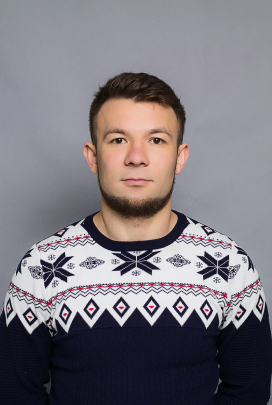
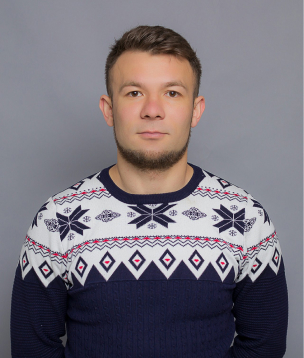
feat: edit section- team

diff --git a/assets/css/style.min.css b/assets/css/style.min.css
@@ -1,2 +1,2 @@
-@import url("https://fonts.googleapis.com/css?family=Yeseva+One&display=swap");html,body,div,span,applet,object,iframe,h1,h2,h3,h4,h5,h6,p,blockquote,pre,a,abbr,acronym,address,big,cite,code,del,dfn,em,img,ins,kbd,q,s,samp,small,strike,strong,sub,sup,tt,var,b,u,i,center,dl,dt,dd,ol,ul,li,fieldset,form,label,legend,table,caption,tbody,tfoot,thead,tr,th,td,article,aside,canvas,details,embed,figure,figcaption,footer,header,hgroup,menu,nav,output,ruby,section,summary,time,mark,audio,video{margin:0;padding:0;border:0;font-size:100%;font:inherit;vertical-align:baseline}article,aside,details,figcaption,figure,footer,header,hgroup,menu,nav,section{display:block}body{line-height:1}ol,ul{list-style:none}blockquote,q{quotes:none}blockquote:before,blockquote:after,q:before,q:after{content:'';content:none}table{border-collapse:collapse;border-spacing:0}@font-face{font-family:'FuturaDemiC';src:local("FuturaDemiC"),url("https://nomail.com.ua/files/woff/fa7892c650d8237d04043b1cf3cdc49f.woff") format("woff")}@font-face{font-family:'FuturaDemiC-Italic';src:local("FuturaDemiC-Italic"),url("https://nomail.com.ua/files/woff/b3b0f9ea4418fc384826ced0fbdf36ac.woff") format("woff")}@font-face{font-family:'FuturaBookC';src:local("FuturaBookC"),url("https://nomail.com.ua/files/woff/363c763618808869720c6ca7b4059566.woff") format("woff")}@font-face{font-family:'FuturaMediumC';src:local("FuturaMediumC"),url("https://nomail.com.ua/files/woff/047c56cc37e017c6be47821ec5cac9de.woff") format("woff")}@font-face{font-family:'ProximaNova-RegularCondensed';src:local("ProximaNova-RegularCondensed"),url("https://nomail.com.ua/files/woff/dc38e71c06219d82fe9ec4c3375e98af.woff") format("woff")}*{-webkit-box-sizing:border-box;box-sizing:border-box;width:100%}body{font-family:'FuturaBookC', Arial, Helvetica, sans-serif;background:#252525;font-size:14px}.checkbox{width:auto}h2{font-family:Yeseva One;font-style:normal;font-weight:normal;font-size:22px;line-height:138.6%;text-align:center;letter-spacing:-0.07em;text-transform:uppercase;color:#E3B873}.btn{text-decoration:none;text-transform:uppercase;background-color:#E3B873;color:#FFFFFF;border:none;font-family:FuturaDemiC;font-size:13px;line-height:15px;display:-ms-grid;display:grid;-webkit-box-align:center;-ms-flex-align:center;align-items:center;justify-items:center;-webkit-transition:0.2s linear;transition:0.2s linear}.btn:hover{background:#E3B87388}.btn-link,.btn-link:hover{background-color:unset}.btn-circle{display:-ms-grid;display:grid;-webkit-box-align:center;-ms-flex-align:center;align-items:center;justify-items:center;border-radius:50%}.btn-secondary{border:1px solid #FFFFFF;background-color:unset}.header{display:-ms-grid;display:grid;-ms-grid-columns:auto auto;grid-template-columns:auto auto;-ms-grid-rows:auto;grid-template-rows:auto;padding:18px;-webkit-box-pack:justify;-ms-flex-pack:justify;justify-content:space-between;-webkit-box-align:center;-ms-flex-align:center;align-items:center;justify-items:center;width:100%;height:57px;align-items:center;justify-items:center}.header .header__title{font-family:FuturaDemiC;font-size:12px;line-height:14px;text-transform:uppercase;color:#E3B873}.header .btn__link{font-family:FuturaDemiC;font-size:12px;line-height:14px}.introduction{display:-ms-grid;display:grid;-ms-grid-columns:1fr;grid-template-columns:1fr;height:476px;color:#FFFFFF;-ms-grid-rows:51px auto;grid-template-rows:51px auto}.introduction .introduction__substrate{-ms-grid-column:1;grid-column:1;-ms-grid-row:1;grid-row:1;background-image:url("/assets/img/bg-001.jpg");background-position:-170px;background-size:cover;height:inherit}.introduction .introduction__inner{-ms-grid-column:1;grid-column:1;-ms-grid-row:1;grid-row:1;background:rgba(0,0,0,0.7);padding:85px 18px 61px 18px;-webkit-box-orient:vertical;-webkit-box-direction:normal;-ms-flex-direction:column;flex-direction:column;display:-ms-grid;display:grid;-ms-grid-rows:73px 129px auto;grid-template-rows:73px 129px auto;height:inherit}.introduction .introduction__inner .introduction__title{font-family:'Yeseva One', cursive;font-size:23px;line-height:132.83%;text-transform:uppercase;margin-bottom:16px;color:#FFFFFF;text-align:left;letter-spacing:0.05px}.introduction .introduction__inner .introduction__title em{color:#E3B873}.introduction .introduction__inner .introduction__description{font-family:FuturaBookC;font-size:18px;line-height:135.84%;margin-bottom:32px;padding-right:40px}.introduction .introduction__inner .btn{height:51px;width:100%}.introduction .introduction__inner .btn-primary{margin-bottom:26px}.completed{display:-ms-grid;display:grid;-ms-grid-columns:1fr;grid-template-columns:1fr;-ms-grid-rows:85px 126px 277px 173px;grid-template-rows:85px 126px 277px 173px;color:#FFFFFF;padding:34px 18px 0 18px}.completed .completed__title{font-family:Yeseva One;font-style:normal;font-weight:normal;font-size:22px;line-height:138.6%;text-align:center;letter-spacing:-0.07em;text-transform:uppercase}.completed .completed__description{font-family:FuturaBookC;font-size:14px;line-height:158.48%;text-align:center;padding:0 10px;letter-spacing:0.1px}.completed .completed__slider{display:-ms-grid;display:grid;-ms-grid-columns:1fr;grid-template-columns:1fr;-ms-grid-rows:1fr;grid-template-rows:1fr;-webkit-box-align:center;-ms-flex-align:center;align-items:center;margin-bottom:36px}.completed .completed__slider .img{-ms-grid-column:1;grid-column:1;-ms-grid-row:1;grid-row:1}.completed .completed__slider .btn-slider-left{-ms-grid-column:1;grid-column:1;-ms-grid-row:1;grid-row:1;margin:0 0 0 14px}.completed .completed__slider .btn-slider-right{-ms-grid-column:1;grid-column:1;-ms-grid-row:1;grid-row:1;margin:0 14px 0 auto}.completed .completed__slider .btn-slider-left,.completed .completed__slider .btn-slider-right{width:36px;height:36px;border-radius:50%}.completed .completed__slider .btn-slider-left img,.completed .completed__slider .btn-slider-right img{height:14px;width:8px;margin:0 auto}.completed .completed__properties{display:-ms-grid;display:grid;-ms-grid-columns:160px 1fr;grid-template-columns:160px 1fr;-ms-grid-rows:auto auto;grid-template-rows:auto auto}.completed .completed__properties li h3{font-family:Yeseva One;font-size:14px;line-height:138.6%;text-transform:uppercase;color:#E3B873;margin-bottom:12px}.completed .completed__properties li p{font-family:FuturaBookC;font-size:14px;line-height:135.84%;color:#FFFFFF;margin-bottom:27px}.control{display:-ms-grid;display:grid;-ms-grid-rows:1fr;grid-template-rows:1fr;-ms-grid-columns:1fr;grid-template-columns:1fr;-webkit-box-align:end;-ms-flex-align:end;align-items:end}.control .control__inner{-ms-grid-column:1;grid-column:1;-ms-grid-row:1;grid-row:1;max-width:340px;display:-ms-grid;display:grid;-ms-grid-rows:78px 70px 234px 18px 171px;grid-template-rows:78px 70px 234px 18px 171px;margin-left:17px;-webkit-box-sizing:border-box;box-sizing:border-box}.control .control__inner .control__title{color:#FFFFFF;margin-top:28px;font-size:25px}.control .control__inner .control__img{height:28px;width:114px;margin:0 auto}.control .control__inner .control__video{height:207px;width:100%;margin:0 auto}.control .control__inner .control__img-line{width:55px;height:1.54px;margin:0 auto}.control .control__inner .control__description{font-family:FuturaBookC;font-size:14px;text-align:center;color:#FFFFFF;line-height:24px;letter-spacing:0.1px}.control .control__inner .control__form label{font-family:FuturaBookC;font-size:15px;line-height:18px;color:rgba(255,255,255,0.5);letter-spacing:0.5px}.control .control__inner .control__form input{font-family:FuturaBookC;font-size:18px;line-height:138.72%;color:#FFFFFF;border:0;background:unset}.control .control__inner .control__form ::-webkit-input-placeholder{color:#FFFFFF}.control .control__inner .control__form :-ms-input-placeholder{color:#FFFFFF}.control .control__inner .control__form ::-ms-input-placeholder{color:#FFFFFF}.control .control__inner .control__form ::placeholder{color:#FFFFFF}.control .control__inner .control__form .control__form-name,.control .control__inner .control__form .control__form-tel{border-bottom:1px solid #FFFFFF}.control .control__inner .control__form .control__form-name{margin-bottom:63px}.control .control__inner .control__form .control__form-tel{margin-bottom:26px}.control .control__inner .control__form .control__form-checkbox-agree{width:auto;margin-bottom:67px;letter-spacing:0.5px}.control .control__inner .control__form label[for="control__form-checkbox-agree"]{color:#FFFFFF}.control .control__inner .control__form .btn{height:51px;text-decoration:none;text-transform:uppercase;background-color:#E3B873;color:#FFFFFF;border:none;font-family:FuturaDemiC;font-size:13px;line-height:15px;display:-ms-grid;display:grid;-webkit-box-align:center;-ms-flex-align:center;align-items:center;justify-items:center;-webkit-transition:0.2s linear;transition:0.2s linear}.control .control__inner .control__form .btn:hover{background:#E3B87388}.control .control__inner .control__form .control__btn-submit{padding-top:5px;font-size:15px}.control .control__substrate{-ms-grid-column:1;grid-column:1;-ms-grid-row:1;grid-row:1;height:25px;z-index:-1;background:#FFFFFF}.repair{background:#FFFFFF;display:-ms-grid;display:grid;-ms-grid-rows:100px 68px;grid-template-rows:100px 68px;padding:0 18px}.repair .repair__title{margin-top:55px;color:#181818;letter-spacing:normal}.repair .repair__img{height:28px;width:114px;margin:0 auto}.repair .repair__article{display:-ms-grid;display:grid;-ms-grid-columns:190px 80px 70px;grid-template-columns:190px 80px 70px;-ms-grid-rows:223px 142px 79px 20px 20px;grid-template-rows:223px 142px 79px 20px 20px;padding-bottom:59px}.repair .repair__article .repair__article-img{-ms-grid-column:1;-ms-grid-column-span:3;grid-column:1/span 3;-ms-grid-row:1;-ms-grid-row-span:2;grid-row:1/span 2}.repair .repair__article .repair__article-img:nth-child(2){background:#E3B873}.repair .repair__article .repair__description{-ms-grid-column:1;-ms-grid-column-span:2;grid-column:1/span 2;-ms-grid-row:2;-ms-grid-row-span:3;grid-row:2/span 3;background:#FFFFFF;font-family:"FuturaBookC";font-size:13px;line-height:22px;color:#959595;-webkit-box-shadow:5px 10px 20px rgba(0,0,0,0.05);box-shadow:5px 10px 20px rgba(0,0,0,0.05);padding:21px 0 0 31px}.repair .repair__article .repair__description .repair__article-title{font-family:"Yeseva One";font-style:normal;font-weight:normal;font-size:15px;line-height:21px;color:#363636;margin-bottom:5px}.repair .repair__article .repair__article-price{-ms-grid-column:1;-ms-grid-column-span:1;grid-column:1/span 1;-ms-grid-row:4;-ms-grid-row-span:2;grid-row:4/span 2;background:#E3B873;color:#FFFFFF;display:-ms-grid;display:grid;-webkit-box-align:center;-ms-flex-align:center;align-items:center;justify-items:center;font-family:Yeseva One;font-style:normal;font-weight:normal;font-size:15px;line-height:21px;text-transform:uppercase}.realize{display:-ms-grid;display:grid;-ms-grid-rows:1fr;grid-template-rows:1fr;-ms-grid-columns:1fr;grid-template-columns:1fr;background:#FFFFFF;-webkit-box-align:end;-ms-flex-align:end;align-items:end}.realize .realize__inner{-ms-grid-row:1;grid-row:1;-ms-grid-column:1;grid-column:1;padding:0 18px;display:-ms-grid;display:grid;-ms-grid-rows:85px 245px;grid-template-rows:85px 245px;z-index:10}.realize .realize__inner .realize__title{font-family:"Yeseva One";font-size:22px;line-height:30px;letter-spacing:0.2px;text-align:center;text-transform:uppercase;color:#E3B873}.realize .realize__inner .realize__slider{display:-ms-grid;display:grid;-ms-grid-columns:14px 36px auto 36px 14px;grid-template-columns:14px 36px auto 36px 14px;-webkit-box-align:center;-ms-flex-align:center;align-items:center;justify-items:center}.realize .realize__inner .realize__slider .realize__slider-img,.realize .realize__inner .realize__slider .realize__slider-btn-left,.realize .realize__inner .realize__slider .realize__slider-btn-right{-ms-grid-row:1;grid-row:1}.realize .realize__inner .realize__slider .realize__slider-img{-ms-grid-column:1;-ms-grid-column-span:5;grid-column:1/span 5}.realize .realize__inner .realize__slider .realize__slider-btn-left{-ms-grid-column:2;grid-column:2}.realize .realize__inner .realize__slider .realize__slider-btn-right{-ms-grid-column:4;grid-column:4}.realize .realize__inner .realize__slider .realize__slider-btn-left,.realize .realize__inner .realize__slider .realize__slider-btn-right{height:36px;width:36px;border-radius:50%}.realize .realize__inner .realize__slider .realize__slider-btn-left img,.realize .realize__inner .realize__slider .realize__slider-btn-right img{margin:0 auto;height:12px;width:8px}.realize .realize__substrate{-ms-grid-row:1;grid-row:1;-ms-grid-column:1;grid-column:1;height:123px;background:#252525}.design{display:-ms-grid;display:grid;-ms-grid-rows:78px 42px 138px auto;grid-template-rows:78px 42px 138px auto;-webkit-box-align:end;-ms-flex-align:end;align-items:end;padding:0 18px}.design .design__title{font-family:"Yeseva One";font-size:22px;line-height:30px;letter-spacing:0.2px;text-align:center;text-transform:uppercase;color:#FFFFFF}.design .design__signboard{width:114px;margin:0 auto}.design .design__description{font-family:FuturaBookC;font-size:15px;line-height:20px;padding:0 11px;margin-top:20px;margin-bottom:auto;text-align:center;color:#FFFFFF}.design .design__article{display:-ms-grid;display:grid;-ms-grid-columns:190px 80px 70px;grid-template-columns:190px 80px 70px;-ms-grid-rows:223px auto auto 20px 20px;grid-template-rows:223px auto auto 20px 20px;margin-bottom:62px}.design .design__article .design__article-img{-ms-grid-column:1;-ms-grid-column-span:3;grid-column:1/span 3;-ms-grid-row:1;-ms-grid-row-span:2;grid-row:1/span 2}.design .design__article .design__article-description{-ms-grid-column:1;-ms-grid-column-span:2;grid-column:1/span 2;-ms-grid-row:2;-ms-grid-row-span:3;grid-row:2/span 3;background:#FFFFFF;padding:18px 0 37px 31px}.design .design__article .design__article-description .design__article-title{font-family:"Yeseva One";font-size:15px;line-height:21px;color:#363636;margin-bottom:10px}.design .design__article .design__article-description .design__article-list{font-family:FuturaBookC;font-size:13px;line-height:22px;color:#959595}.design .design__article .design__article-price{-ms-grid-column:1;-ms-grid-column-span:1;grid-column:1/span 1;-ms-grid-row:4;-ms-grid-row-span:2;grid-row:4/span 2;display:-ms-grid;display:grid;-webkit-box-align:center;-ms-flex-align:center;align-items:center;justify-items:center;background:#E3B873;-webkit-box-shadow:5px 5px 10px rgba(227,184,115,0.3);box-shadow:5px 5px 10px rgba(227,184,115,0.3);font-family:"Yeseva One";font-size:15px;line-height:21px;text-transform:uppercase;color:#FFFFFF}.map .map__wrap{height:255px;max-width:340px;width:100%;margin:0 auto}
+@import url("https://fonts.googleapis.com/css?family=Yeseva+One&display=swap");html,body,div,span,applet,object,iframe,h1,h2,h3,h4,h5,h6,p,blockquote,pre,a,abbr,acronym,address,big,cite,code,del,dfn,em,img,ins,kbd,q,s,samp,small,strike,strong,sub,sup,tt,var,b,u,i,center,dl,dt,dd,ol,ul,li,fieldset,form,label,legend,table,caption,tbody,tfoot,thead,tr,th,td,article,aside,canvas,details,embed,figure,figcaption,footer,header,hgroup,menu,nav,output,ruby,section,summary,time,mark,audio,video{margin:0;padding:0;border:0;font-size:100%;font:inherit;vertical-align:baseline}article,aside,details,figcaption,figure,footer,header,hgroup,menu,nav,section{display:block}body{line-height:1}ol,ul{list-style:none}blockquote,q{quotes:none}blockquote:before,blockquote:after,q:before,q:after{content:'';content:none}table{border-collapse:collapse;border-spacing:0}@font-face{font-family:'FuturaDemiC';src:local("FuturaDemiC"),url("https://nomail.com.ua/files/woff/fa7892c650d8237d04043b1cf3cdc49f.woff") format("woff")}@font-face{font-family:'FuturaDemiC-Italic';src:local("FuturaDemiC-Italic"),url("https://nomail.com.ua/files/woff/b3b0f9ea4418fc384826ced0fbdf36ac.woff") format("woff")}@font-face{font-family:'FuturaBookC';src:local("FuturaBookC"),url("https://nomail.com.ua/files/woff/363c763618808869720c6ca7b4059566.woff") format("woff")}@font-face{font-family:'FuturaMediumC';src:local("FuturaMediumC"),url("https://nomail.com.ua/files/woff/047c56cc37e017c6be47821ec5cac9de.woff") format("woff")}@font-face{font-family:'ProximaNova-RegularCondensed';src:local("ProximaNova-RegularCondensed"),url("https://nomail.com.ua/files/woff/dc38e71c06219d82fe9ec4c3375e98af.woff") format("woff")}*{-webkit-box-sizing:border-box;box-sizing:border-box;width:100%}body{font-family:'FuturaBookC', Arial, Helvetica, sans-serif;background:#252525;font-size:14px}.checkbox{width:auto}h2{font-family:Yeseva One;font-style:normal;font-weight:normal;font-size:22px;line-height:138.6%;text-align:center;letter-spacing:-0.07em;text-transform:uppercase;color:#E3B873}.btn{text-decoration:none;text-transform:uppercase;background-color:#E3B873;color:#FFFFFF;border:none;font-family:FuturaDemiC;font-size:13px;line-height:15px;display:-ms-grid;display:grid;-webkit-box-align:center;-ms-flex-align:center;align-items:center;justify-items:center;-webkit-transition:0.2s linear;transition:0.2s linear}.btn:hover{background:#E3B87388}.btn-link,.btn-link:hover{background-color:unset}.btn-circle{display:-ms-grid;display:grid;-webkit-box-align:center;-ms-flex-align:center;align-items:center;justify-items:center;border-radius:50%}.btn-secondary{border:1px solid #FFFFFF;background-color:unset}.header{display:-ms-grid;display:grid;-ms-grid-columns:auto auto;grid-template-columns:auto auto;-ms-grid-rows:auto;grid-template-rows:auto;padding:18px;-webkit-box-pack:justify;-ms-flex-pack:justify;justify-content:space-between;-webkit-box-align:center;-ms-flex-align:center;align-items:center;justify-items:center;width:100%;height:57px;align-items:center;justify-items:center}.header .header__title{font-family:FuturaDemiC;font-size:12px;line-height:14px;text-transform:uppercase;color:#E3B873}.header .btn__link{font-family:FuturaDemiC;font-size:12px;line-height:14px}.introduction{display:-ms-grid;display:grid;-ms-grid-columns:1fr;grid-template-columns:1fr;height:476px;color:#FFFFFF;-ms-grid-rows:51px auto;grid-template-rows:51px auto}.introduction .introduction__substrate{-ms-grid-column:1;grid-column:1;-ms-grid-row:1;grid-row:1;background-image:url("/assets/img/bg-001.jpg");background-position:-170px;background-size:cover;height:inherit}.introduction .introduction__inner{-ms-grid-column:1;grid-column:1;-ms-grid-row:1;grid-row:1;background:rgba(0,0,0,0.7);padding:85px 18px 61px 18px;-webkit-box-orient:vertical;-webkit-box-direction:normal;-ms-flex-direction:column;flex-direction:column;display:-ms-grid;display:grid;-ms-grid-rows:73px 129px auto;grid-template-rows:73px 129px auto;height:inherit}.introduction .introduction__inner .introduction__title{font-family:'Yeseva One', cursive;font-size:23px;line-height:132.83%;text-transform:uppercase;margin-bottom:16px;color:#FFFFFF;text-align:left;letter-spacing:0.05px}.introduction .introduction__inner .introduction__title em{color:#E3B873}.introduction .introduction__inner .introduction__description{font-family:FuturaBookC;font-size:18px;line-height:135.84%;margin-bottom:32px;padding-right:40px}.introduction .introduction__inner .btn{height:51px;width:100%}.introduction .introduction__inner .btn-primary{margin-bottom:26px}.completed{display:-ms-grid;display:grid;-ms-grid-columns:1fr;grid-template-columns:1fr;-ms-grid-rows:85px 126px 277px 173px;grid-template-rows:85px 126px 277px 173px;color:#FFFFFF;padding:34px 18px 0 18px}.completed .completed__title{font-family:Yeseva One;font-style:normal;font-weight:normal;font-size:22px;line-height:138.6%;text-align:center;letter-spacing:-0.07em;text-transform:uppercase}.completed .completed__description{font-family:FuturaBookC;font-size:14px;line-height:158.48%;text-align:center;padding:0 10px;letter-spacing:0.1px}.completed .completed__slider{display:-ms-grid;display:grid;-ms-grid-columns:1fr;grid-template-columns:1fr;-ms-grid-rows:1fr;grid-template-rows:1fr;-webkit-box-align:center;-ms-flex-align:center;align-items:center;margin-bottom:36px}.completed .completed__slider .img{-ms-grid-column:1;grid-column:1;-ms-grid-row:1;grid-row:1}.completed .completed__slider .btn-slider-left{-ms-grid-column:1;grid-column:1;-ms-grid-row:1;grid-row:1;margin:0 0 0 14px}.completed .completed__slider .btn-slider-right{-ms-grid-column:1;grid-column:1;-ms-grid-row:1;grid-row:1;margin:0 14px 0 auto}.completed .completed__slider .btn-slider-left,.completed .completed__slider .btn-slider-right{width:36px;height:36px;border-radius:50%}.completed .completed__slider .btn-slider-left img,.completed .completed__slider .btn-slider-right img{height:14px;width:8px;margin:0 auto}.completed .completed__properties{display:-ms-grid;display:grid;-ms-grid-columns:160px 1fr;grid-template-columns:160px 1fr;-ms-grid-rows:auto auto;grid-template-rows:auto auto}.completed .completed__properties li h3{font-family:Yeseva One;font-size:14px;line-height:138.6%;text-transform:uppercase;color:#E3B873;margin-bottom:12px}.completed .completed__properties li p{font-family:FuturaBookC;font-size:14px;line-height:135.84%;color:#FFFFFF;margin-bottom:27px}.control{display:-ms-grid;display:grid;-ms-grid-rows:1fr;grid-template-rows:1fr;-ms-grid-columns:1fr;grid-template-columns:1fr;-webkit-box-align:end;-ms-flex-align:end;align-items:end}.control .control__inner{-ms-grid-column:1;grid-column:1;-ms-grid-row:1;grid-row:1;max-width:340px;display:-ms-grid;display:grid;-ms-grid-rows:78px 70px 234px 18px 171px;grid-template-rows:78px 70px 234px 18px 171px;margin-left:17px;-webkit-box-sizing:border-box;box-sizing:border-box}.control .control__inner .control__title{color:#FFFFFF;margin-top:28px;font-size:25px}.control .control__inner .control__img{height:28px;width:114px;margin:0 auto}.control .control__inner .control__video{height:207px;width:100%;margin:0 auto}.control .control__inner .control__img-line{width:55px;height:1.54px;margin:0 auto}.control .control__inner .control__description{font-family:FuturaBookC;font-size:14px;text-align:center;color:#FFFFFF;line-height:24px;letter-spacing:0.1px}.control .control__inner .control__form label{font-family:FuturaBookC;font-size:15px;line-height:18px;color:rgba(255,255,255,0.5);letter-spacing:0.5px}.control .control__inner .control__form input{font-family:FuturaBookC;font-size:18px;line-height:138.72%;color:#FFFFFF;border:0;background:unset}.control .control__inner .control__form ::-webkit-input-placeholder{color:#FFFFFF}.control .control__inner .control__form :-ms-input-placeholder{color:#FFFFFF}.control .control__inner .control__form ::-ms-input-placeholder{color:#FFFFFF}.control .control__inner .control__form ::placeholder{color:#FFFFFF}.control .control__inner .control__form .control__form-name,.control .control__inner .control__form .control__form-tel{border-bottom:1px solid #FFFFFF}.control .control__inner .control__form .control__form-name{margin-bottom:63px}.control .control__inner .control__form .control__form-tel{margin-bottom:26px}.control .control__inner .control__form .control__form-checkbox-agree{width:auto;margin-bottom:67px;letter-spacing:0.5px}.control .control__inner .control__form label[for="control__form-checkbox-agree"]{color:#FFFFFF}.control .control__inner .control__form .btn{height:51px;text-decoration:none;text-transform:uppercase;background-color:#E3B873;color:#FFFFFF;border:none;font-family:FuturaDemiC;font-size:13px;line-height:15px;display:-ms-grid;display:grid;-webkit-box-align:center;-ms-flex-align:center;align-items:center;justify-items:center;-webkit-transition:0.2s linear;transition:0.2s linear}.control .control__inner .control__form .btn:hover{background:#E3B87388}.control .control__inner .control__form .control__btn-submit{padding-top:5px;font-size:15px}.control .control__substrate{-ms-grid-column:1;grid-column:1;-ms-grid-row:1;grid-row:1;height:25px;z-index:-1;background:#FFFFFF}.repair{background:#FFFFFF;display:-ms-grid;display:grid;-ms-grid-rows:100px 68px;grid-template-rows:100px 68px;padding:0 18px}.repair .repair__title{margin-top:55px;color:#181818;letter-spacing:normal}.repair .repair__img{height:28px;width:114px;margin:0 auto}.repair .repair__article{display:-ms-grid;display:grid;-ms-grid-columns:190px 80px 70px;grid-template-columns:190px 80px 70px;-ms-grid-rows:223px 142px 79px 20px 20px;grid-template-rows:223px 142px 79px 20px 20px;padding-bottom:59px}.repair .repair__article .repair__article-img{-ms-grid-column:1;-ms-grid-column-span:3;grid-column:1/span 3;-ms-grid-row:1;-ms-grid-row-span:2;grid-row:1/span 2}.repair .repair__article .repair__article-img:nth-child(2){background:#E3B873}.repair .repair__article .repair__description{-ms-grid-column:1;-ms-grid-column-span:2;grid-column:1/span 2;-ms-grid-row:2;-ms-grid-row-span:3;grid-row:2/span 3;background:#FFFFFF;font-family:"FuturaBookC";font-size:13px;line-height:22px;color:#959595;-webkit-box-shadow:5px 10px 20px rgba(0,0,0,0.05);box-shadow:5px 10px 20px rgba(0,0,0,0.05);padding:21px 0 0 31px}.repair .repair__article .repair__description .repair__article-title{font-family:"Yeseva One";font-style:normal;font-weight:normal;font-size:15px;line-height:21px;color:#363636;margin-bottom:5px}.repair .repair__article .repair__article-price{-ms-grid-column:1;-ms-grid-column-span:1;grid-column:1/span 1;-ms-grid-row:4;-ms-grid-row-span:2;grid-row:4/span 2;background:#E3B873;color:#FFFFFF;display:-ms-grid;display:grid;-webkit-box-align:center;-ms-flex-align:center;align-items:center;justify-items:center;font-family:Yeseva One;font-style:normal;font-weight:normal;font-size:15px;line-height:21px;text-transform:uppercase}.realize{display:-ms-grid;display:grid;-ms-grid-rows:1fr;grid-template-rows:1fr;-ms-grid-columns:1fr;grid-template-columns:1fr;background:#FFFFFF;-webkit-box-align:end;-ms-flex-align:end;align-items:end}.realize .realize__inner{-ms-grid-row:1;grid-row:1;-ms-grid-column:1;grid-column:1;padding:0 18px;display:-ms-grid;display:grid;-ms-grid-rows:85px 245px;grid-template-rows:85px 245px;z-index:10}.realize .realize__inner .realize__title{font-family:"Yeseva One";font-size:22px;line-height:30px;letter-spacing:0.2px;text-align:center;text-transform:uppercase;color:#E3B873}.realize .realize__inner .realize__slider{display:-ms-grid;display:grid;-ms-grid-columns:14px 36px auto 36px 14px;grid-template-columns:14px 36px auto 36px 14px;-webkit-box-align:center;-ms-flex-align:center;align-items:center;justify-items:center}.realize .realize__inner .realize__slider .realize__slider-img,.realize .realize__inner .realize__slider .realize__slider-btn-left,.realize .realize__inner .realize__slider .realize__slider-btn-right{-ms-grid-row:1;grid-row:1}.realize .realize__inner .realize__slider .realize__slider-img{-ms-grid-column:1;-ms-grid-column-span:5;grid-column:1/span 5}.realize .realize__inner .realize__slider .realize__slider-btn-left{-ms-grid-column:2;grid-column:2}.realize .realize__inner .realize__slider .realize__slider-btn-right{-ms-grid-column:4;grid-column:4}.realize .realize__inner .realize__slider .realize__slider-btn-left,.realize .realize__inner .realize__slider .realize__slider-btn-right{height:36px;width:36px;border-radius:50%}.realize .realize__inner .realize__slider .realize__slider-btn-left img,.realize .realize__inner .realize__slider .realize__slider-btn-right img{margin:0 auto;height:12px;width:8px}.realize .realize__substrate{-ms-grid-row:1;grid-row:1;-ms-grid-column:1;grid-column:1;height:123px;background:#252525}.design{display:-ms-grid;display:grid;-ms-grid-rows:78px 42px 138px auto;grid-template-rows:78px 42px 138px auto;-webkit-box-align:end;-ms-flex-align:end;align-items:end;padding:0 18px}.design .design__title{font-family:"Yeseva One";font-size:22px;line-height:30px;letter-spacing:0.2px;text-align:center;text-transform:uppercase;color:#FFFFFF}.design .design__signboard{width:114px;margin:0 auto}.design .design__description{font-family:FuturaBookC;font-size:15px;line-height:20px;padding:0 11px;margin-top:20px;margin-bottom:auto;text-align:center;color:#FFFFFF}.design .design__article{display:-ms-grid;display:grid;-ms-grid-columns:190px 80px 70px;grid-template-columns:190px 80px 70px;-ms-grid-rows:223px auto auto 20px 20px;grid-template-rows:223px auto auto 20px 20px;margin-bottom:62px}.design .design__article .design__article-img{-ms-grid-column:1;-ms-grid-column-span:3;grid-column:1/span 3;-ms-grid-row:1;-ms-grid-row-span:2;grid-row:1/span 2}.design .design__article .design__article-description{-ms-grid-column:1;-ms-grid-column-span:2;grid-column:1/span 2;-ms-grid-row:2;-ms-grid-row-span:3;grid-row:2/span 3;background:#FFFFFF;padding:18px 0 37px 31px}.design .design__article .design__article-description .design__article-title{font-family:"Yeseva One";font-size:15px;line-height:21px;color:#363636;margin-bottom:10px}.design .design__article .design__article-description .design__article-list{font-family:FuturaBookC;font-size:13px;line-height:22px;color:#959595}.design .design__article .design__article-price{-ms-grid-column:1;-ms-grid-column-span:1;grid-column:1/span 1;-ms-grid-row:4;-ms-grid-row-span:2;grid-row:4/span 2;display:-ms-grid;display:grid;-webkit-box-align:center;-ms-flex-align:center;align-items:center;justify-items:center;background:#E3B873;-webkit-box-shadow:5px 5px 10px rgba(227,184,115,0.3);box-shadow:5px 5px 10px rgba(227,184,115,0.3);font-family:"Yeseva One";font-size:15px;line-height:21px;text-transform:uppercase;color:#FFFFFF}.team{display:-ms-grid;display:grid;-ms-grid-columns:1fr;grid-template-columns:1fr;-ms-grid-rows:41px 41px 105px auto;grid-template-rows:41px 41px 105px auto;-webkit-box-align:end;-ms-flex-align:end;align-items:end;padding:0 18px}.team .team__title{font-family:"Yeseva One";font-size:22px;line-height:30px;text-align:center;text-transform:uppercase;color:#FFFFFF;letter-spacing:0.2px}.team .team__signboard{width:114px;margin:0 auto}.team .team__description{font-family:"FuturaBookC";font-size:15px;line-height:20px;text-align:center;color:#FFFFFF;-ms-flex-item-align:start;-ms-grid-row-align:start;align-self:start;padding-top:21px}.team .team__article{display:-ms-grid;display:grid;grid-auto-columns:35px 35px 269px;-ms-grid-rows:35px 35px 242px 80px 56px;grid-template-rows:35px 35px 242px 80px 56px;padding-bottom:55px}.team .team__article .team__article-signboard{-ms-grid-column:1;-ms-grid-column-span:2;grid-column:1/span 2;-ms-grid-row:1;-ms-grid-row-span:2;grid-row:1/span 2;display:-ms-grid;display:grid;-webkit-box-align:center;-ms-flex-align:center;align-items:center;justify-items:center;background:#E3B873;-webkit-box-shadow:0px 4px 4px rgba(0,0,0,0.25);box-shadow:0px 4px 4px rgba(0,0,0,0.25)}.team .team__article .team__article-signboard .team__article-icon{height:44px;width:44px}.team .team__article .team__article-img{-ms-grid-column:2;-ms-grid-column-span:2;grid-column:2/span 2;-ms-grid-row:2;-ms-grid-row-span:3;grid-row:2/span 3;z-index:-1}.team .team__article .team__article-description{-ms-grid-column:2;-ms-grid-column-span:2;grid-column:2/span 2;-ms-grid-row:4;-ms-grid-row-span:2;grid-row:4/span 2;padding:0 41px 0 31px}.team .team__article .team__article-description .team__article-name{font-family:"Yeseva One";font-size:18px;line-height:25px;text-align:center;color:#181818;background:#FFFFFF;padding-top:21px}.team .team__article .team__article-description .team__article-post{font-family:"FuturaBookC";font-size:18px;line-height:26px;text-align:center;color:#959595;background:#FFFFFF;padding:3px 0 19px}.team .team__article .team__article-description .team__article-experience{font-family:"Yeseva One";font-size:13px;line-height:20px;text-align:center;text-transform:uppercase;color:#FFFFFF;background:#E3B873;padding:11px 0 13px}.map .map__wrap{height:255px;max-width:340px;width:100%;margin:0 auto}
 /*# sourceMappingURL=style.min.css.map */

diff --git a/index.html b/index.html
@@ -311,56 +311,60 @@
 
 
 
-    
+
     <!-- team -->
     <section class="team">
 
-      <h2>our team</h2>
-      <img src="assets/svg/signboard-team.svg" alt="team-svg">
+      <h2 class="team__title">our team</h2>
+      <img class="team__signboard" src="assets/svg/signboard-team.svg" alt="team-svg">
 
-      <p>
+      <p class="team__description">
         Our team has helped to become happier for more than
         500 families and we are not going to stop
       </p>
 
+
       <!-- team - article 1 -->
-      <article>
-        <img src="assets/svg/icon-idea.svg" alt="svg">
-        <div>img-bg</div>
-        <div>
-          <div>
-            <h3>Dmitry tulyakov</h3>
-            <p>Project manager</p>
-          </div>
-          <div>Work experience 8 years</div>
+      <article class="team__article">
+        <div class="team__article-signboard">
+          <img class="team__article-icon" src="assets/svg/icon-idea.svg" alt="svg">
+        </div>
+        <img class="team__article-img" src="assets/img/team-1.jpg" alt="">
+        <div class="team__article-description">
+          <h3 class="team__article-name">Dmitry tulyakov</h3>
+          <p class="team__article-post">Project manager</p>
+          <div class="team__article-experience">Work experience 8 years</div>
         </div>
       </article>
+
 
       <!-- team - article 2 -->
-      <article>
-        <img src="assets/svg/icon-ballpoint-pen.svg" alt="svg">
-        <div>img-bg</div>
-        <div>
-          <div>
-            <h3>Larisa Kotlyarova</h3>
-            <p>Designer</p>
-          </div>
-          <div>Work experience 6 years</div>
+      <article class="team__article">
+        <div class="team__article-signboard">
+          <img class="team__article-icon" src="assets/svg/icon-ballpoint-pen.svg" alt="svg">
+        </div>
+        <img class="team__article-img" src="assets/img/team-2.jpg" alt="">
+        <div class="team__article-description">
+          <h3 class="team__article-name">Larisa Kotlyarova</h3>
+          <p class="team__article-post">Designer</p>
+          <div class="team__article-experience">Work experience 6 years</div>
         </div>
       </article>
 
-      <!-- team - article 3 -->
-      <article>
-        <img src="assets/svg/icon-suitcase.svg" alt="svg">
-        <div>img-bg</div>
-        <div>
-          <div>
-            <h3>Alexey Efimov</h3>
-            <p>Foreman</p>
+
+      <!-- team - article 2 -->
+      <article class="team__article">
+          <div class="team__article-signboard">
+            <img class="team__article-icon" src="assets/svg/icon-suitcase.svg" alt="svg">
           </div>
-          <div>Work experience 12 years</div>
-        </div>
-      </article>
+          <img class="team__article-img" src="assets/img/team-3.jpg" alt="">
+          <div class="team__article-description">
+            <h3 class="team__article-name">Alexey Efimov</h3>
+            <p class="team__article-post">Foreman</p>
+            <div class="team__article-experience">Work experience 12 years</div>
+          </div>
+        </article>
+        
     </section>
 
 

diff --git a/assets/css/style.css b/assets/css/style.css
@@ -887,6 +887,129 @@ h2 {
   color: #FFFFFF;
 }
 
+.team {
+  display: -ms-grid;
+  display: grid;
+  -ms-grid-columns: 1fr;
+      grid-template-columns: 1fr;
+  -ms-grid-rows: 41px 41px 105px auto;
+      grid-template-rows: 41px 41px 105px auto;
+  -webkit-box-align: end;
+      -ms-flex-align: end;
+          align-items: end;
+  padding: 0 18px;
+}
+
+.team .team__title {
+  font-family: "Yeseva One";
+  font-size: 22px;
+  line-height: 30px;
+  text-align: center;
+  text-transform: uppercase;
+  color: #FFFFFF;
+  letter-spacing: 0.2px;
+}
+
+.team .team__signboard {
+  width: 114px;
+  margin: 0 auto;
+}
+
+.team .team__description {
+  font-family: "FuturaBookC";
+  font-size: 15px;
+  line-height: 20px;
+  text-align: center;
+  color: #FFFFFF;
+  -ms-flex-item-align: start;
+      -ms-grid-row-align: start;
+      align-self: start;
+  padding-top: 21px;
+}
+
+.team .team__article {
+  display: -ms-grid;
+  display: grid;
+  grid-auto-columns: 35px 35px 269px;
+  -ms-grid-rows: 35px 35px 242px 80px 56px;
+      grid-template-rows: 35px 35px 242px 80px 56px;
+  padding-bottom: 55px;
+}
+
+.team .team__article .team__article-signboard {
+  -ms-grid-column: 1;
+  -ms-grid-column-span: 2;
+  grid-column: 1/span 2;
+  -ms-grid-row: 1;
+  -ms-grid-row-span: 2;
+  grid-row: 1/span 2;
+  display: -ms-grid;
+  display: grid;
+  -webkit-box-align: center;
+      -ms-flex-align: center;
+          align-items: center;
+  justify-items: center;
+  background: #E3B873;
+  -webkit-box-shadow: 0px 4px 4px rgba(0, 0, 0, 0.25);
+          box-shadow: 0px 4px 4px rgba(0, 0, 0, 0.25);
+}
+
+.team .team__article .team__article-signboard .team__article-icon {
+  height: 44px;
+  width: 44px;
+}
+
+.team .team__article .team__article-img {
+  -ms-grid-column: 2;
+  -ms-grid-column-span: 2;
+  grid-column: 2/span 2;
+  -ms-grid-row: 2;
+  -ms-grid-row-span: 3;
+  grid-row: 2/span 3;
+  z-index: -1;
+}
+
+.team .team__article .team__article-description {
+  -ms-grid-column: 2;
+  -ms-grid-column-span: 2;
+  grid-column: 2/span 2;
+  -ms-grid-row: 4;
+  -ms-grid-row-span: 2;
+  grid-row: 4/span 2;
+  padding: 0 41px 0 31px;
+}
+
+.team .team__article .team__article-description .team__article-name {
+  font-family: "Yeseva One";
+  font-size: 18px;
+  line-height: 25px;
+  text-align: center;
+  color: #181818;
+  background: #FFFFFF;
+  padding-top: 21px;
+}
+
+.team .team__article .team__article-description .team__article-post {
+  font-family: "FuturaBookC";
+  font-size: 18px;
+  line-height: 26px;
+  text-align: center;
+  color: #959595;
+  background: #FFFFFF;
+  padding: 3px 0 19px;
+}
+
+.team .team__article .team__article-description .team__article-experience {
+  font-family: "Yeseva One";
+  font-size: 13px;
+  line-height: 20px;
+  text-align: center;
+  text-transform: uppercase;
+  color: #FFFFFF;
+  background: #E3B873;
+  padding: 11px 0 13px;
+}
+
 .map .map__wrap {
   height: 255px;
   max-width: 340px;

diff --git a/assets/css/style.scss b/assets/css/style.scss
@@ -616,6 +616,7 @@ h2 {
 			grid-column: 1/span 3;
 			grid-row: 1/span 2;
 		}
+
 		margin-bottom: 62px;
 
 		.design__article-description {
@@ -663,7 +664,109 @@ h2 {
 }
 
 
+.team {
+	display: grid;
+	grid-template-columns: 1fr;
+	grid-template-rows: 41px 41px 105px auto;
+	align-items: end;
 
+	padding: 0 18px;
+
+	.team__title {
+		font-family: "Yeseva One";
+		font-size: 22px;
+		line-height: 30px;
+		text-align: center;
+		text-transform: uppercase;
+		color: #FFFFFF;
+		// padding-top: 10px;
+		letter-spacing: 0.2px;
+	}
+
+	.team__signboard {
+		width: 114px;
+		margin: 0 auto;
+	}
+
+	.team__description {
+		font-family: "FuturaBookC";
+		font-size: 15px;
+		line-height: 20px;
+		text-align: center;
+		color: #FFFFFF;
+
+		align-self: start;
+		padding-top: 21px;
+	}
+
+	.team__article {
+		display: grid;
+		grid-auto-columns: 35px 35px 269px;
+		grid-template-rows: 35px 35px 242px 80px 56px;
+		padding-bottom: 55px;
+
+		.team__article-signboard {
+			grid-column: 1/span 2;
+			grid-row: 1/span 2;
+			display: grid;
+			align-items: center;
+			justify-items: center;
+
+			background: #E3B873;
+			box-shadow: 0px 4px 4px rgba(0, 0, 0, 0.25);
+
+			.team__article-icon {
+				height: 44px;
+				width: 44px;
+			}
+		}
+
+		.team__article-img {
+			grid-column: 2/span 2;
+			grid-row: 2/span 3;
+			z-index: -1;
+		}
+
+		.team__article-description {
+			grid-column: 2/span 2;
+			grid-row: 4/span 2;
+			padding: 0 41px 0 31px;
+
+			.team__article-name {
+				font-family: "Yeseva One";
+				font-size: 18px;
+				line-height: 25px;
+				text-align: center;
+				color: #181818;
+				background: #FFFFFF;
+
+				padding-top: 21px;
+			}
+
+			.team__article-post {
+				font-family: "FuturaBookC";
+				font-size: 18px;
+				line-height: 26px;
+				text-align: center;
+				color: #959595;
+				background: #FFFFFF;
+
+				padding: 3px 0 19px;
+			}
+
+			.team__article-experience {
+				font-family: "Yeseva One";
+				font-size: 13px;
+				line-height: 20px;
+				text-align: center;
+				text-transform: uppercase;
+				color: #FFFFFF;
+				background: #E3B873;
+				padding: 11px 0 13px;
+			}
+		}
+	}
+}
 
 
 
